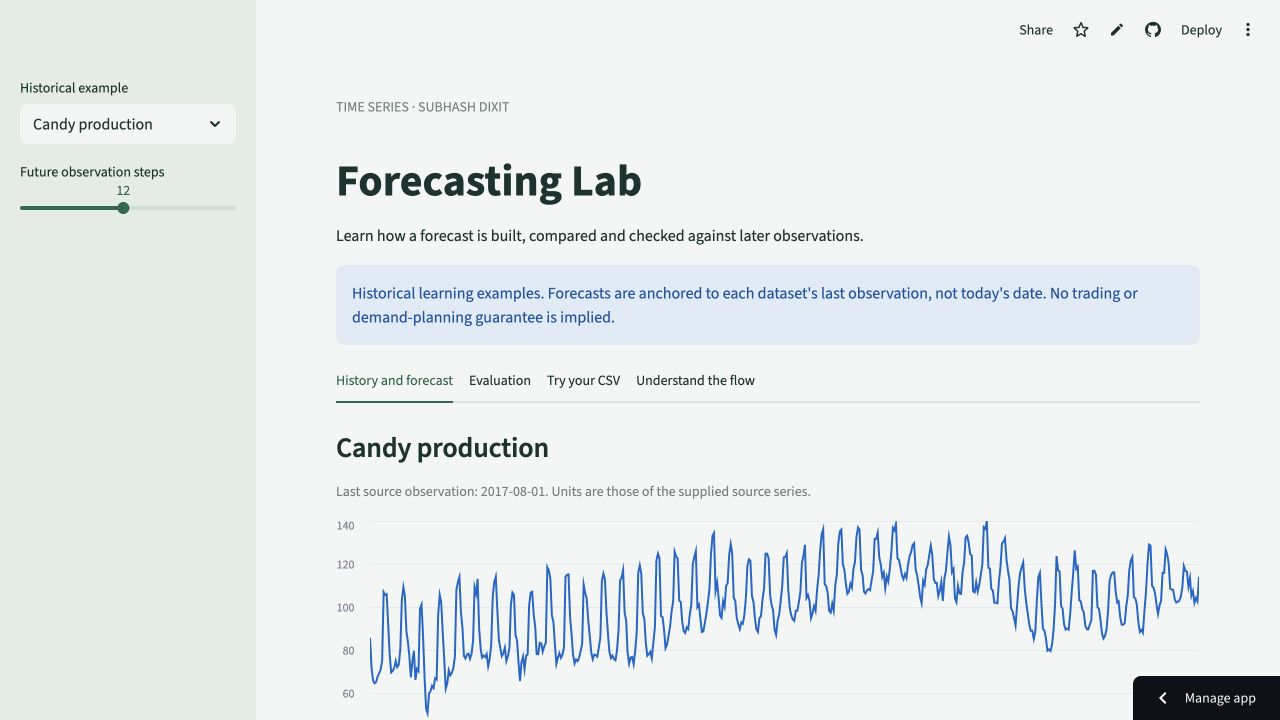
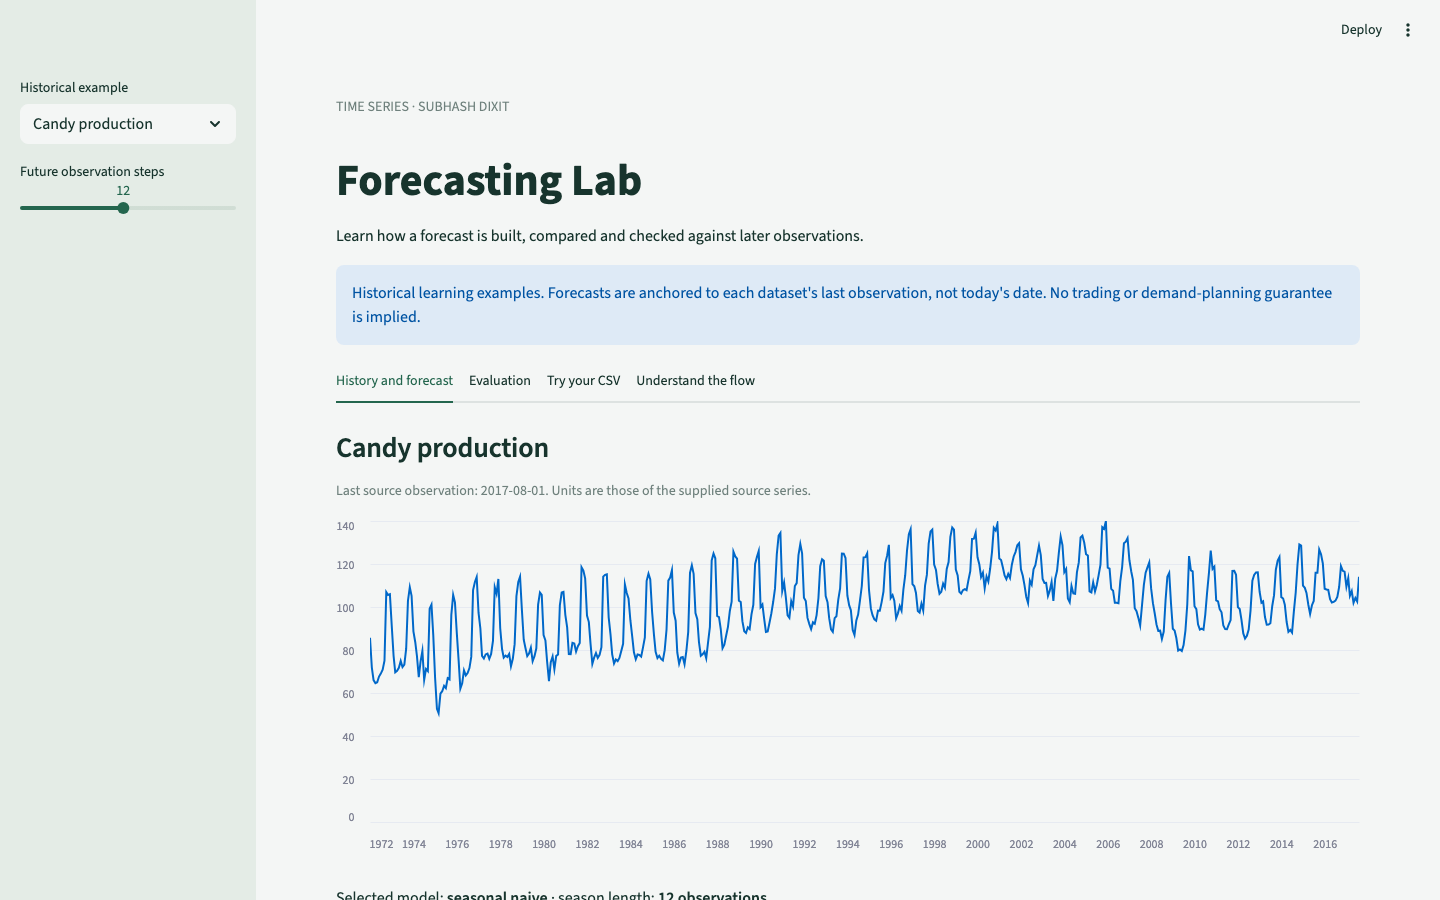
Document project architecture and add app screenshot (#4)

diff --git a/README.md b/README.md
@@ -1,18 +1,20 @@
-# Forecasting Lab
+# Time Series Forecasting Lab
 
-**Live application:** [Open Time Series Forecasting Lab](https://subhash-time-series-lab.streamlit.app/) · [Source code](https://github.com/subhashdixit/time-series-forecasting-lab)
+## 1. Project overview
 
-![Live Forecasting Lab](docs/images/application.png)
+Compare forecasting methods on historical monthly candy production and quarterly news demand, or fit a bounded forecast to an uploaded CSV.
 
-An end-to-end **time-series learning application** built with Streamlit, pandas, NumPy and statsmodels. Explore two measured historical case studies, compare later-observation errors and fit a bounded forecast to your own CSV—including stock-price observations.
+[Live demo](https://subhash-time-series-lab.streamlit.app/) · [Source repository](https://github.com/subhashdixit/time-series-forecasting-lab)
 
-The goal is to learn a reliable sequence: inspect history, preserve time order, compare simple and more complex models, test on later observations, and then forecast beyond the known history. A complicated model does not automatically win.
+![Time Series Forecasting Lab main screen](docs/images/application.png)
 
-> Historical educational examples. Built-in data ends in 2017 for candy and 2015 for quarterly news demand. Forecasts begin after those source cutoffs, not today. No trading recommendation or business-planning accuracy guarantee is implied.
+*Main screen captured from the app running locally.*
 
-[Run locally](#run-locally) · [Use the app](#use-the-application) · [Algorithms](#algorithms-and-their-tradeoffs) · [Results](#measured-results) · [Deployment](#deployment-on-streamlit-community-cloud)
+## 2. Motivation and problem statement
 
-## What the app contains
+A forecast chart alone cannot tell a practitioner whether the model generalizes. Random splits can leak future information, and a seasonal model can appear strong without a seasonal baseline. The lab preserves time order, exposes model comparisons and later-observation errors, and carries that workflow into bounded custom CSV forecasts.
+
+## 3. Solution and scope
 
 | Area | What you can do |
 |---|---|
@@ -25,39 +27,7 @@ The stock-study notebook and PDF are preserved. A verified stock-price CSV is no
 
 Original notebooks and datasets remain in their source folders. Some notebook cells were incomplete or used old APIs; the application uses the new tested modules rather than executing notebook state at startup.
 
-## Architecture
-
-```mermaid
-flowchart LR
-    A[Original source CSVs] --> B[Offline preparation]
-    B --> C[Time-ordered model comparison]
-    C --> D[Measured reports and forecasts]
-    D --> E[Streamlit dashboard]
-    F[User CSV] --> G[Shared validation]
-    G --> H[Explicit bounded fit button]
-    H --> I[Exercise forecast and download]
-```
-
-Default views load precomputed, reproducible reports, so the dashboard does not retrain just because someone opens it. A custom upload runs a bounded fitting exercise only after the visitor selects its button. Domain functions are separate from the Streamlit interface, allowing meaningful tests without clicking through a browser.
-
-## Run locally
-
-Use Python **3.10 or 3.11**; choose 3.11 for Community Cloud. Pinned dependencies are declared in `pyproject.toml` and installed through `requirements.txt`.
-
-```bash
-git clone https://github.com/subhashdixit/time-series-forecasting-lab.git
-cd time-series-forecasting-lab
-python3 -m venv .venv
-source .venv/bin/activate
-python -m pip install --upgrade pip
-pip install -r requirements-dev.txt
-python -m pip check
-streamlit run streamlit_app.py
-```
-
-On Windows, use `.venv\Scripts\Activate.ps1`. Open the local URL Streamlit prints, normally [http://localhost:8501](http://localhost:8501). Default reports are committed; source preparation is optional for ordinary app use.
-
-## Use the application
+## 4. Quick start and usage
 
 1. Choose **Candy production** or **Quarterly news demand** in the sidebar.
 2. Inspect the source history and its last observed date.
@@ -83,7 +53,32 @@ Irregular stock-trading dates are interpreted as **ordered observations**, not a
 
 Uploaded data is processed in memory and is not written by the app. Use data you are authorized to analyze. The service does not provide user authentication, durable private storage or a production forecasting SLA.
 
-## Data and units
+## 5. High-level architecture
+
+```mermaid
+flowchart LR
+    A["Historical case studies"] --> B["Offline evaluation artifacts"] --> C["Streamlit dashboard"]
+```
+
+## 6. End-to-end request workflow
+
+```mermaid
+sequenceDiagram
+    actor Visitor
+    participant UI as Application
+    participant Logic as Processing layer
+    Visitor->>UI: Choose a case study or upload a CSV
+    UI->>Logic: Read committed results or fit a bounded model
+    alt Valid input
+        Logic-->>UI: Forecasts, errors, and diagnostics
+        UI-->>Visitor: Render or export the result
+    else Invalid input
+        Logic-->>UI: Input error
+        UI-->>Visitor: Show actionable feedback
+    end
+```
+
+## 7. Data sources, inputs, and outputs
 
 | Source | Observations | Period | Column interpretation |
 |---|---:|---|---|
@@ -93,7 +88,66 @@ Uploaded data is processed in memory and is not written by the app. Use data you
 
 The quarterly source combines year and quarter into a quarter-start date. Original TRP episode data is retained as source material, but is not silently treated as a dated quarterly series. Files do not establish complete upstream collection or licensing provenance; verify rights before redistributing source materials elsewhere.
 
-## Reproduce preparation
+## 8. Data flow and ETL pipeline
+
+```mermaid
+flowchart LR
+    A["Case-study CSV or uploaded series"] --> B["Parse dates and check regularity"] --> C["Split in time order"] --> D["Compare baselines and candidates"] --> E["Report holdout and forecast"]
+```
+
+## 9. Low-level design and interfaces
+
+```mermaid
+flowchart LR
+    A["streamlit_app.py: dashboard and upload"] --> B["core.py: validation, fitting, and metrics"] --> C["reports: historical evaluation artifacts"]
+```
+
+Streamlit renders validated controls and download actions. Shared forecasting code handles data and model operations.
+
+## 10. Concepts and algorithms
+
+| Algorithm | Story | Advantage | Limitation |
+|---|---|---|---|
+| Seasonal naive | Repeat the last observed cycle | Transparent, fast and difficult to beat when seasonality dominates | Cannot adapt a changing trend or new regime |
+| Exponential smoothing | Estimate level, trend and additive seasonality | Useful for smoothly evolving seasonal structure | Trend extrapolation can diverge over long horizons; structural breaks are difficult |
+| ARIMA(1,1,1) | Difference once, then model lagged dynamics and errors | Compact statistical baseline | Fixed order, stationarity assumptions after differencing and no explicit seasonal cycle |
+| SARIMA(1,1,0) × (1,0,0,s) | Add a seasonal lag to differenced dynamics | Models repeated seasonal dependence | More parameters, optimization sensitivity and weak estimates on short histories |
+
+The orders are deliberately fixed, not an exhaustive search. With season 1, the seasonal component is disabled. ARIMA/SARIMA optimizer iterations are bounded; non-convergent fits are excluded and reported. A warning about starting parameters is not automatically the same as failed convergence.
+
+**Why this sequence?** Start with the simplest credible baseline. Add trend/seasonality smoothing when the pattern changes smoothly. Add autoregressive/differencing structure when residual dependence suggests it. Compare held-out errors rather than assuming a newer or more complex model must be better.
+
+A simple analogy: seasonal naive repeats last year's calendar; smoothing revises that calendar gradually; ARIMA models how changes depend on previous changes and surprises; SARIMA adds the repeating seasonal rhythm.
+
+## 11. Technology choices and dependencies
+
+| Technology | Role and rationale |
+| --- | --- |
+| pandas and NumPy | Represent regular time series, build splits, and compute errors. |
+| statsmodels | Fit exponential smoothing, ARIMA, and seasonal ARIMA alongside simple baselines. |
+| Streamlit | Expose the same workflow for historical cases and validated uploads. |
+| pytest, GitHub Actions, and Docker | Check data/model contracts and smoke-test a packaged runtime. |
+
+[Dependency versions and reproducible setup](DEPENDENCIES.md)
+
+## 12. Training, inference, and evaluation
+
+| Case | Rows | Validation-selected model | Test MAE | Test RMSE | Test rows |
+|---|---:|---|---:|---:|---:|
+| candy | 548 | seasonal naive | 5.871 | 7.505 | 110 |
+| news | 16 | exponential smoothing | 2.833 | 3.437 | 4 |
+
+![Candy held-out forecast](docs/images/candy-evaluation.png)
+
+![Quarterly-demand held-out forecast](docs/images/news-evaluation.png)
+
+Candy's seasonal-naive validation MAE is 5.293, compared with 9.254 for smoothing, 12.216 for ARIMA and 5.977 for SARIMA. The simplest candidate wins this particular comparison. Quarterly demand selects smoothing by validation MAE 4.143, but its final test contains only four observations; the result is not robust evidence for planning.
+
+**MAE** averages absolute errors in source units. **RMSE** squares errors before averaging and taking a square root, so large misses count more heavily. If errors are 10 and 20 units, MAE is 15 and RMSE is about 15.81. Neither permits a fair direct comparison between unrelated source scales. MAPE is not included because percentage errors become unstable near zero and need a separate suitability decision.
+
+No calibrated prediction intervals are claimed. Forecasts are not silently clipped to positive values; statistical models can produce implausible values, which is a limitation to inspect rather than conceal. Long horizons on a short series are especially unreliable.
+
+### Reproduce offline preparation
 
 ```bash
 python scripts/prepare.py
@@ -119,39 +173,7 @@ The exact counts are **328/110/110** for candy and **9/3/4** for quarterly deman
 
 The test is a single historical cutoff, not rolling-origin cross-validation or independent future evidence. Repeatedly modifying settings after viewing test errors would reuse the test and weaken that claim. For real forecasting research, add rolling-origin evaluations and fresh later periods.
 
-## Algorithms and their tradeoffs
-
-| Algorithm | Story | Advantage | Limitation |
-|---|---|---|---|
-| Seasonal naive | Repeat the last observed cycle | Transparent, fast and difficult to beat when seasonality dominates | Cannot adapt a changing trend or new regime |
-| Exponential smoothing | Estimate level, trend and additive seasonality | Useful for smoothly evolving seasonal structure | Trend extrapolation can diverge over long horizons; structural breaks are difficult |
-| ARIMA(1,1,1) | Difference once, then model lagged dynamics and errors | Compact statistical baseline | Fixed order, stationarity assumptions after differencing and no explicit seasonal cycle |
-| SARIMA(1,1,0) × (1,0,0,s) | Add a seasonal lag to differenced dynamics | Models repeated seasonal dependence | More parameters, optimization sensitivity and weak estimates on short histories |
-
-The orders are deliberately fixed, not an exhaustive search. With season 1, the seasonal component is disabled. ARIMA/SARIMA optimizer iterations are bounded; non-convergent fits are excluded and reported. A warning about starting parameters is not automatically the same as failed convergence.
-
-**Why this sequence?** Start with the simplest credible baseline. Add trend/seasonality smoothing when the pattern changes smoothly. Add autoregressive/differencing structure when residual dependence suggests it. Compare held-out errors rather than assuming a newer or more complex model must be better.
-
-A simple analogy: seasonal naive repeats last year's calendar; smoothing revises that calendar gradually; ARIMA models how changes depend on previous changes and surprises; SARIMA adds the repeating seasonal rhythm.
-
-## Measured results
-
-| Case | Rows | Validation-selected model | Test MAE | Test RMSE | Test rows |
-|---|---:|---|---:|---:|---:|
-| candy | 548 | seasonal naive | 5.871 | 7.505 | 110 |
-| news | 16 | exponential smoothing | 2.833 | 3.437 | 4 |
-
-![Candy held-out forecast](docs/images/candy-evaluation.png)
-
-![Quarterly-demand held-out forecast](docs/images/news-evaluation.png)
-
-Candy's seasonal-naive validation MAE is 5.293, compared with 9.254 for smoothing, 12.216 for ARIMA and 5.977 for SARIMA. The simplest candidate wins this particular comparison. Quarterly demand selects smoothing by validation MAE 4.143, but its final test contains only four observations; the result is not robust evidence for planning.
-
-**MAE** averages absolute errors in source units. **RMSE** squares errors before averaging and taking a square root, so large misses count more heavily. If errors are 10 and 20 units, MAE is 15 and RMSE is about 15.81. Neither permits a fair direct comparison between unrelated source scales. MAPE is not included because percentage errors become unstable near zero and need a separate suitability decision.
-
-No calibrated prediction intervals are claimed. Forecasts are not silently clipped to positive values; statistical models can produce implausible values, which is a limitation to inspect rather than conceal. Long horizons on a short series are especially unreliable.
-
-## Tests and coding standards
+### Verification
 
 ```bash
 python -m black --check src tests scripts streamlit_app.py
@@ -164,7 +186,50 @@ Tests check input bounds, dates, duplicates, missing/non-finite values, seasonal
 
 The code uses focused functions rather than forcing a stateful class around stateless calculations. Streamlit handles presentation; `forecasting.core` owns validation, fitting and evaluation. File preparation is a separate script. This separation is more useful than a large inheritance hierarchy for this application.
 
-## Deployment on Streamlit Community Cloud
+## 13. Limitations and data handling
+
+The built-in series end in 2017 and 2015. Their forecasts start after those historical cutoffs. Uploaded results depend on frequency, history length, data quality, and the chosen model. Stock-price inputs are educational and do not support a trading recommendation.
+
+## 14. Installation and local setup
+
+Use Python **3.10 or 3.11**; choose 3.11 for Community Cloud. Pinned dependencies are declared in `pyproject.toml` and installed through `requirements.txt`.
+
+```bash
+git clone https://github.com/subhashdixit/time-series-forecasting-lab.git
+cd time-series-forecasting-lab
+python3 -m venv .venv
+source .venv/bin/activate
+python -m pip install --upgrade pip
+pip install -r requirements-dev.txt
+python -m pip check
+streamlit run streamlit_app.py
+```
+
+On Windows, use `.venv\Scripts\Activate.ps1`. Open the local URL Streamlit prints, normally [http://localhost:8501](http://localhost:8501). Default reports are committed; source preparation is optional for ordinary app use.
+
+## 15. Repository structure
+
+```text
+src/forecasting/core.py  validation, algorithms, errors and chronological selection
+streamlit_app.py        dashboard and bounded CSV exercise
+scripts/prepare.py     source-to-report offline preparation
+scripts/plot_results.py reproducible documentation figures
+reports/               measured JSON reports and forecast/history CSVs
+tests/                 domain and AppTest checks
+.streamlit/            theme and upload limits
+.github/workflows/     CI; platform manages deployment separately
+Dockerfile             optional portable runtime
+Candy_Production/      original source CSV and notebook
+NEWS_Demand_Dataset/   original quarterly/TRP data and notebook
+Happiest_Mind_Stock_Price_Prediction/ original stock study
+```
+
+## 16. Deployment and operations
+
+```mermaid
+flowchart LR
+    A["GitHub main"] --> B["Streamlit Community Cloud"] --> C["Load versioned artifacts"] --> D["Serve dashboard"]
+```
 
 Hosting provides the running process and public URL. Deployment installs a specific repository revision into that environment. Community Cloud connects to GitHub, installs the project and runs the entry file.
 
@@ -182,55 +247,20 @@ GitHub Actions checks Python 3.10/3.11, formatting, Pylint, tests and the contai
 
 Benefits are fast publication and little server configuration. Tradeoffs include platform limits, less server control and reliance on the provider's GitHub integration. A failed dependency install is a deployment problem; a healthy app with weak forecasts is a modeling problem. Monitor them separately.
 
-## Optional Docker execution
-
-```bash
-docker build -t forecasting-lab:local .
-docker run --rm -p 8501:8501 forecasting-lab:local
-```
-
-The image packages Python, dependencies, source and prepared reports. It runs as a non-root user. Docker makes packaging portable but adds image/build maintenance; Community Cloud deployment uses its native Python environment instead.
-
-## Versioning and rollback
+### Versioning and rollback
 
 Git identifies code and prepared artifacts. Each JSON report records its source hash and evaluation. Re-running preparation changes the forecast release; opening the dashboard does not. Review model/code/report changes together and retain the previous revision.
 
 Rollback means reverting the problematic commit through a reviewed change and allowing the platform to publish the restored branch. Merely restarting a broken revision does not restore an earlier model. If the test cutoff influences repeated tuning, reserve new later data before claiming an untouched evaluation.
 
-## Repository map
+## 17. License, credits, and support
 
-```text
-src/forecasting/core.py  validation, algorithms, errors and chronological selection
-streamlit_app.py        dashboard and bounded CSV exercise
-scripts/prepare.py     source-to-report offline preparation
-scripts/plot_results.py reproducible documentation figures
-reports/               measured JSON reports and forecast/history CSVs
-tests/                 domain and AppTest checks
-.streamlit/            theme and upload limits
-.github/workflows/     CI; platform manages deployment separately
-Dockerfile             optional portable runtime
-Candy_Production/      original source CSV and notebook
-NEWS_Demand_Dataset/   original quarterly/TRP data and notebook
-Happiest_Mind_Stock_Price_Prediction/ original stock study
-```
+Project by **Subhash Dixit**. The repository has no standalone code license file. Dataset and dependency terms are described separately where applicable. Report bugs or documentation issues with synthetic reproduction inputs.
 
-## Troubleshooting
+[GitHub Issues](https://github.com/subhashdixit/time-series-forecasting-lab/issues)
 
-A short-series or season-length error means the chosen fit lacks enough history; reduce season length or supply more observations. A non-convergence error is a failed fit, not a valid forecast. Correct dates and missing values explicitly rather than silently interpolating test targets. If Cloud imports fail, confirm Python 3.11 and that `requirements.txt` installs this package from the repository root.
-
-## References
+### References
 
 - [Statsmodels time-series models](https://www.statsmodels.org/stable/tsa.html)
 - [Streamlit AppTest](https://docs.streamlit.io/develop/api-reference/app-testing)
 - [Streamlit Community Cloud](https://docs.streamlit.io/deploy/streamlit-community-cloud)
-
-## Exact local dependency versions
-
-[DEPENDENCIES.md](DEPENDENCIES.md) lists the pinned runtime, development and training environments. `requirements.txt` now explicitly records all external runtime package versions, including transitive dependencies.
-
-```bash
-python3.11 -m venv .venv
-# Activate: source .venv/bin/activate (Windows: .venv\Scripts\activate)
-python -m pip install -r requirements.txt
-python -m pip check
-```
